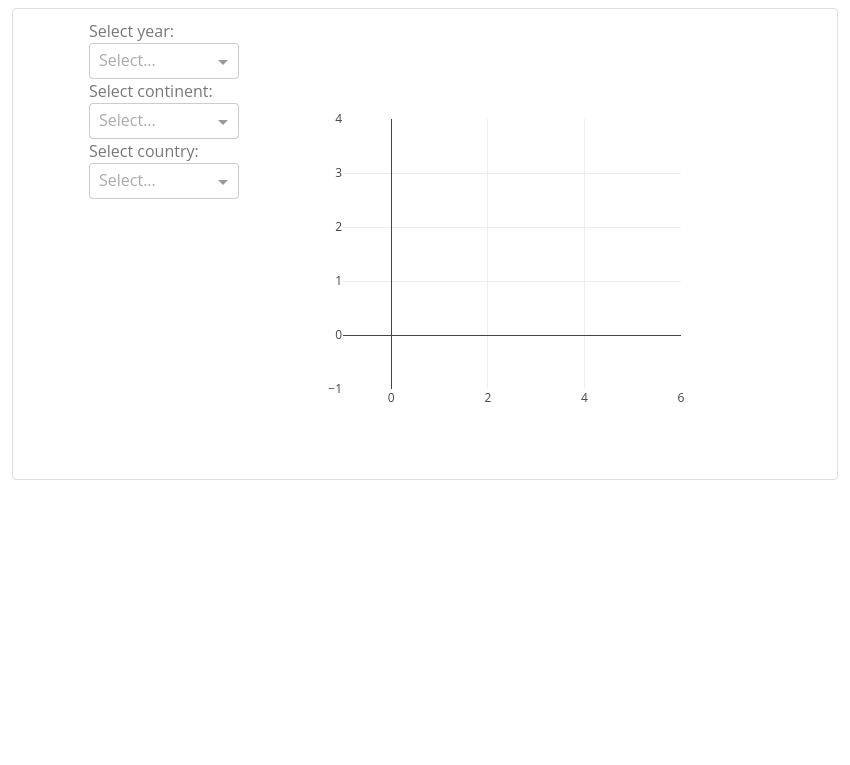
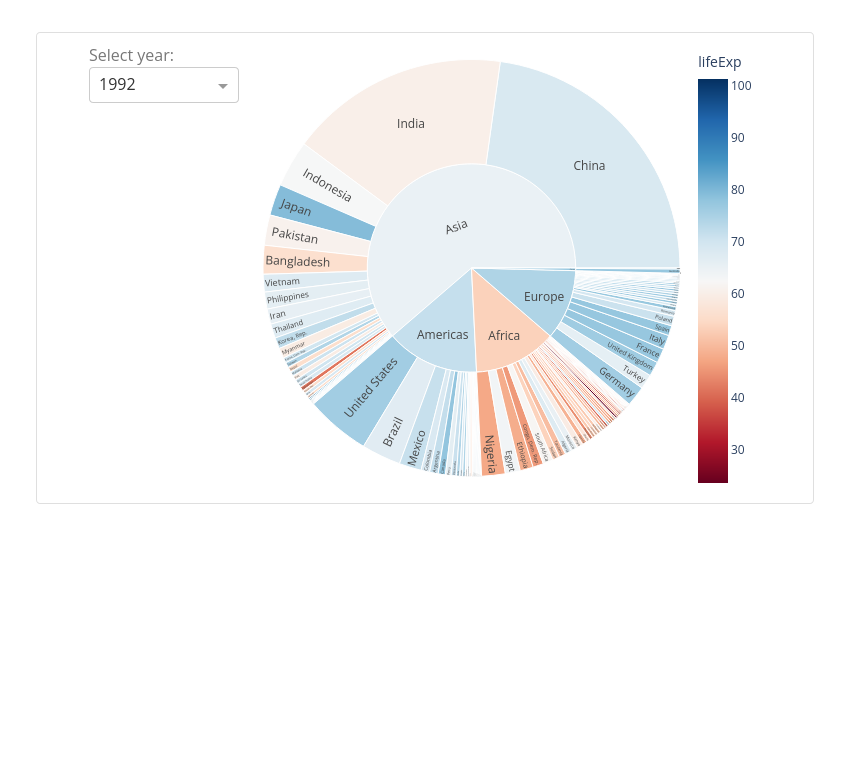
update feature app, sunburst example, app images

diff --git a/examples/sunburst-plot.py b/examples/sunburst-plot.py
@@ -1,15 +1,11 @@
-from dash import Dash, Input, Output, State, html, dcc, no_update
+from dash import Dash, Input, Output, html, dcc
 import dash_bootstrap_components as dbc
 import plotly.express as px
 import numpy as np
 
-df = px.data.gapminder().query("year >= 1992")
+df = px.data.gapminder()
 
-app = Dash(
-    __name__,
-    external_stylesheets=[dbc.themes.BOOTSTRAP],
-    prevent_initial_callbacks=True,
-)
+app = Dash(__name__, external_stylesheets=[dbc.themes.BOOTSTRAP])
 
 app.layout = dbc.Container(
     dbc.Row(
@@ -17,11 +13,12 @@ app.layout = dbc.Container(
             dbc.Col(
                 [
                     html.Label("Select year:"),
-                    dcc.Dropdown(id="sunburst-plot-x-year", options=df.year.unique()),
-                    html.Label("Select continent:"),
-                    dcc.Dropdown(id="sunburst-plot-x-continent", multi=True),
-                    html.Label("Select country:"),
-                    dcc.Dropdown(id="sunburst-plot-x-country", multi=True),
+                    dcc.Dropdown(
+                        id="sunburst-plot-x-year",
+                        options=df.year.unique(),
+                        value=1992,
+                        clearable=False,
+                    ),
                 ],
                 width=3,
             ),
@@ -35,56 +32,22 @@ app.layout = dbc.Container(
 
 
 @app.callback(
-    Output("sunburst-plot-x-continent", "options"),
-    Input("sunburst-plot-x-year", "value"),
+    Output("sunburst-plot-x-graph", "figure"), Input("sunburst-plot-x-year", "value")
 )
-def chained_dropdown_1(year):
-    if year is None:
-        return []
-    else:
-        return df.query(f"year == {year}").continent.unique()
+def generate_graph(year):
+    dff = px.data.gapminder().query(f"year == {year}")
+    fig = px.sunburst(
+        dff,
+        path=["continent", "country"],
+        values="pop",
+        color="lifeExp",
+        hover_data=["iso_alpha"],
+        color_continuous_scale="RdBu",
+        color_continuous_midpoint=np.average(df["lifeExp"], weights=df["pop"]),
+    )
 
-
-@app.callback(
-    Output("sunburst-plot-x-country", "options"),
-    Input("sunburst-plot-x-continent", "value"),
-    Input("sunburst-plot-x-year", "value"),
-)
-def chained_dropdown_2(continent, year):
-    if year is None:
-        return []
-    elif continent is None:
-        return []
-    else:
-        return df.query(f"continent == {continent} & year == {year}").country.unique()
-
-
-@app.callback(
-    Output("sunburst-plot-x-graph", "figure"),
-    Input("sunburst-plot-x-country", "value"),
-    Input("sunburst-plot-x-year", "value"),
-    Input("sunburst-plot-x-continent", "value"),
-)
-def generate_graph(country, year, continent):
-    if not all([country, year, continent]):
-        return no_update
-    else:
-        dff = df.query(
-            f"year == {year} & continent in {continent} & country in {country}"
-        )
-
-        fig = px.sunburst(
-            dff,
-            path=["continent", "country"],
-            values="pop",
-            color="lifeExp",
-            hover_data=["iso_alpha"],
-            color_continuous_scale="RdBu",
-            color_continuous_midpoint=np.average(dff["lifeExp"], weights=dff["pop"]),
-        )
-
-        fig.update_layout(margin=dict(l=0, r=0, t=0, b=0))
-        return fig
+    fig.update_layout(margin=dict(l=0, r=0, t=0, b=0))
+    return fig
 
 
 if __name__ == "__main__":

diff --git a/pages/home-search.py b/pages/home-search.py
@@ -71,13 +71,15 @@ layout = html.Div(
     Input("home-search-x-code-search-input", "value"),
     Input("home-search-x-case-sensitive", "value"),
     Input({"type": "feature_app", "index": ALL}, "n_clicks"),
+    Input("overview", "n_clicks"),
 )
-def update(searchterms, case_sensitive, feature_app):
+def update(searchterms, case_sensitive, feature_app, overview):
     input_id = ctx.triggered_id
     registry = dash.page_registry.values()
 
     # show apps based on search field
     if input_id == "home-search-x-code-search-input":
+        print("search",)
         if searchterms:
             filtered_example_app_names = search_code_files(searchterms, case_sensitive)
             registry = filtered_registry(filtered_example_app_names)
@@ -85,6 +87,7 @@ def update(searchterms, case_sensitive, feature_app):
 
     # show feature apps
     if isinstance(input_id, dict):
+        print("feature")
         # The searchterms are from the "index" key of the pattern matching dict id
         # See `utils.feature_app.py for more details.
         searchterms = input_id["index"]

diff --git a/pages/sunburst-plot.py b/pages/sunburst-plot.py
@@ -5,20 +5,14 @@ from utils.code_and_show import example_app
 
 dash.register_page(
     __name__,
-    description="This app connects between a sunburst plot and three chained callbacks",
+    description="Sunburst chart with continuous color scale.  Select gapminder data by year with a Dropdown component",
     layout_type="side by side",
     components_type=["dropdown"],
     graph_type="sunburst",
-    callback_type="chained",
 )
 
 filename = __name__.split("pages.")[1]
 
-# make a mini layout with the links to the docs that would go under each app
-# all_links = {"dropdown: https://dash.plotly.com/dash-core-components/dropdown",
-# "chained callback": "https://dash.plotly.com/basic-callbacks#dash-app-with-chained-callbacks",
-# "sunburst": "https://plotly.com/python/sunburst-charts/"}
-# links = html.Div([all_links])
 
 
 notes = """

diff --git a/app.py b/app.py
@@ -37,16 +37,9 @@ fullscreen_modal = dbc.Modal(
 
 navbar = dbc.NavbarSimple(
     [
-        dbc.Button("Overview", href="/", color="secondary"),
+        dbc.Button("Overview", id="overview", href="/", color="secondary"),
         dbc.Button("Fullscreen App", id="open-fs-app", color="secondary"),
         dbc.Button("Fullscreen Code", id="open-fs-code", color="secondary"),
-        dbc.Switch(
-            id="full-screen",
-            label="Full Screen",
-            value=False,
-            label_class_name="text-white",
-            className="d-none",  # todo hidden for now
-        ),
     ],
     brand="Dash App Gallery",
     brand_href="/",

diff --git a/utils/feature_app.py b/utils/feature_app.py
@@ -34,6 +34,7 @@ figure_type = {
     "Scatter Matirix": "px.scatter_matrix",
     "Pie": "px.pie",
     "Scatter Geo": "px.scatter_geo",
+    "Scatter Map": "px.scatter_mapbox",
     "Sankey": "go.Sankey",
     "Sub plots": "make_subplots",
     "Sunburst": "px.sunburst",
@@ -58,6 +59,9 @@ components = {
     "Checklist": "Checklist(",
     "Tabs": "Tab(",
     "Slider": "Slider(",
+    "Cytoscape": "Cyto",
+    "Download": "Download",
+
 }
 components = {key: components[key] for key in sorted(components)}
 

diff --git a/examples/planes_scatter_geo.py b/examples/planes_scatter_geo.py
@@ -10,7 +10,7 @@ app.layout = html.Div(
         html.H4("Airports"),
         html.P(
             "px.scatter_geo is used to plot points on globe across geolocations while "
-            "px.scatter_map is used to plot points on map across geolocations."
+            "px.scatter_mapbox is used to plot points on map across geolocations."
         ),
         dcc.Graph(id="planes_scatter_geo-x-graph"),
         html.P(

diff --git a/pages/planes_scatter_geo.py b/pages/planes_scatter_geo.py
@@ -26,6 +26,7 @@ Dash docs:
 
 - [Scatter Mapbox](https://plotly.com/python/mapbox-layers/) 
 - [Scatter Geo](https://plotly.com/python/bubble-maps/) 
+- [Map Configuration: Mapbox Maps vs Geo Maps ](https://plotly.com/python/map-configuration/)
 
 #### Contributed by:
 This example app was contributed by [someshfengde](https://github.com/someshfengde)
